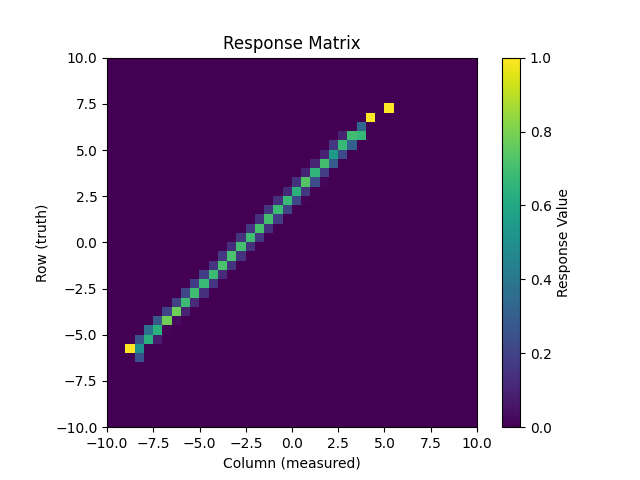
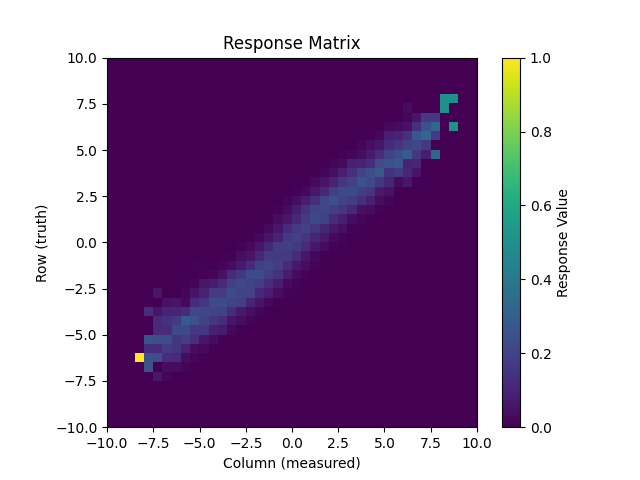
Minor updates.

Changed region(s): [[0.1875, 0.1875, 0.7188, 0.7812]]

diff --git a/examples/standard.py b/examples/standard.py
@@ -19,9 +19,13 @@ from QUnfold.plot import QUnfoldPlotter
 def main():
 
     # Load normal distribution data
-    truth = np.loadtxt("data/normal/truth_bin_content.txt")
-    measured = np.loadtxt("data/normal/meas_bin_content.txt")
-    response = np.loadtxt("data/normal/response.txt")
+    truth = np.loadtxt("data/double-peaked/truth_bin_content.txt")
+    measured = np.loadtxt("data/double-peaked/meas_bin_content.txt")
+    response = np.loadtxt("data/double-peaked/response.txt")
+    binning = np.loadtxt("data/double-peaked/binning.txt")
+    bins = int(binning[0])
+    min_bin = int(binning[1])
+    max_bin = int(binning[2])
 
     # Unfold with simulated annealing
     unfolder = QUnfoldQUBO(
@@ -32,7 +36,7 @@ def main():
 
     # Plot information
     plotter = QUnfoldPlotter(
-        unfolder=unfolder, truth=truth, binning=np.linspace(-10, 10, 41)
+        unfolder=unfolder, truth=truth, binning=np.linspace(min_bin, max_bin, bins + 1)
     )
     plotter.saveResponse("img/examples/standard/response.png")
     plotter.savePlot(
